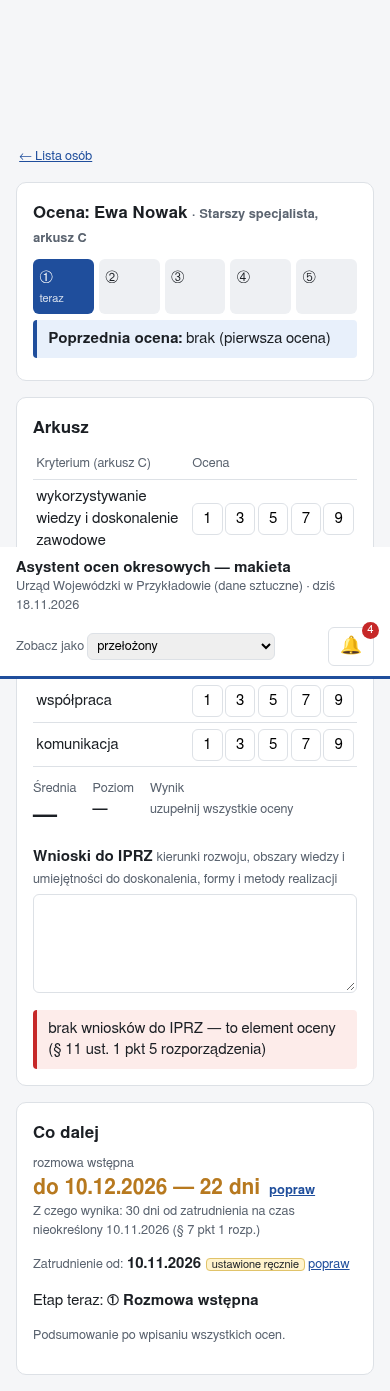
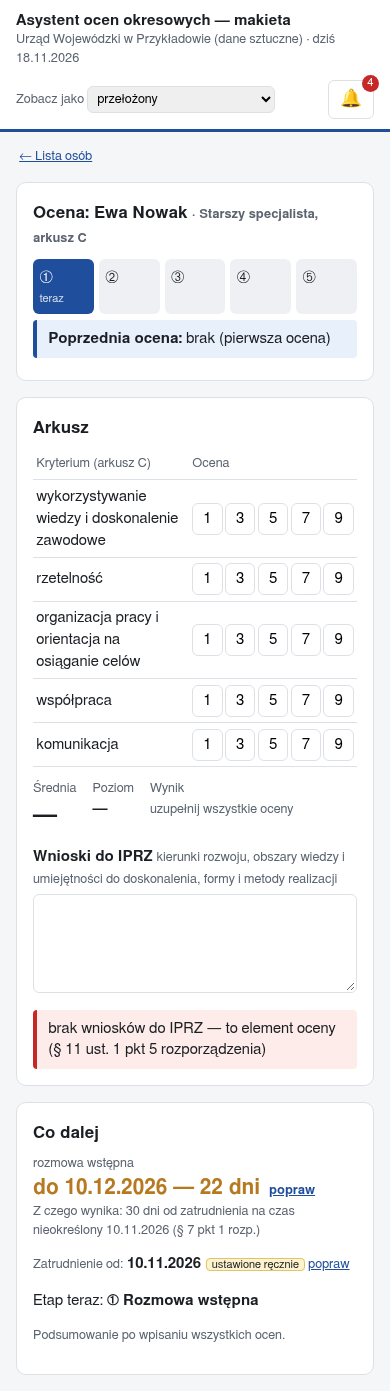
makieta R3: P24 pracownik po potwierdzeniu bez terminu przełożonego, P25 pasek na telefonie nieprzyklejony; zrzuty R3

diff --git a/makieta/warianty/wspolne/styl.css b/makieta/warianty/wspolne/styl.css
@@ -22,7 +22,7 @@ table{width:100%;border-collapse:collapse}td,th{padding:.45rem .4rem;border-bott
 .lista-przyp{position:absolute;right:0;top:2.4rem;width:min(92vw,380px);background:#fff;border:1px solid var(--ramka);border-radius:8px;box-shadow:0 6px 20px #0002;display:grid;padding:.3rem;z-index:10}
 .przyp{text-align:left;border:0;border-bottom:1px solid var(--ramka);border-radius:0;font-size:.85rem}
 .okno{border:1px solid var(--ramka);border-radius:10px;padding:1rem;max-width:min(92vw,420px)}.okno label{display:grid;gap:.2rem;margin:.5rem 0}.przyciski{display:flex;gap:.5rem;justify-content:flex-end}
-.dwie{display:grid;gap:1rem;grid-template-columns:1.4fr 1fr}@media(max-width:760px){.dwie{grid-template-columns:1fr}.etapy .et{display:none}.etapy .dt{font-size:.7rem}td,th{padding:.35rem .2rem}}
+.dwie{display:grid;gap:1rem;grid-template-columns:1.4fr 1fr}@media(max-width:760px){.gora{position:static}.dwie{grid-template-columns:1fr}.etapy .et{display:none}.etapy .dt{font-size:.7rem}td,th{padding:.35rem .2rem}}
 .potw{background:#e3f1e4;padding:.5rem .7rem;border-radius:6px}
 .os{list-style:none;padding:0;margin:0 0 1rem;border-left:3px solid var(--ramka)}.os li{padding:.5rem .8rem;position:relative}.os li::before{content:"";position:absolute;left:-8px;top:.8rem;width:13px;height:13px;border-radius:50%;background:#b8bec6}
 .os li.zrobione::before{background:var(--zielony)}.os li.teraz::before{background:var(--akcent)}.os li.teraz{background:#e8f0fb;border-radius:6px}

diff --git a/docs/decyzje.md b/docs/decyzje.md
@@ -114,3 +114,4 @@ P25 19:11 odpowiedź: tak — górny pasek na telefonie przewija się razem z tr
 P23 19:12 odpowiedź: tak, puszczamy dalej
 19:12 Szef: krok 2 (/write-prd) zamknięty po 3 rundach + P23 (tak); spec do budowy po recenzji odbiorcy (Programista, 4 braki w meldunku). Od 19:12 za Pawła i Artura odpowiada Claude (Paweł wyszedł).
 19:15 Prezenter: hacktribe.md dopasowany do spec z 19:12 (IPRZ z podpowiedzią AI tylko dla przełożonego, data następnej oceny wstępna, pracownik widzi tylko swój termin sprzeciwu, trzy miary sukcesu).
+19:15 Programista: P24 i P25 (Artur 19:11) w makiecie: pracownik po potwierdzeniu widzi tylko swój termin na sprzeciw (25.11.2026) — bez karty terminu przełożonego; dzwonek z terminami przełożonego tylko w widoku przełożonego. Telefon (≤ 760 px): górny pasek position:static, przewija się z treścią; komputer bez zmian. Testy P24/P25, zrzuty R3 nadpisane.
